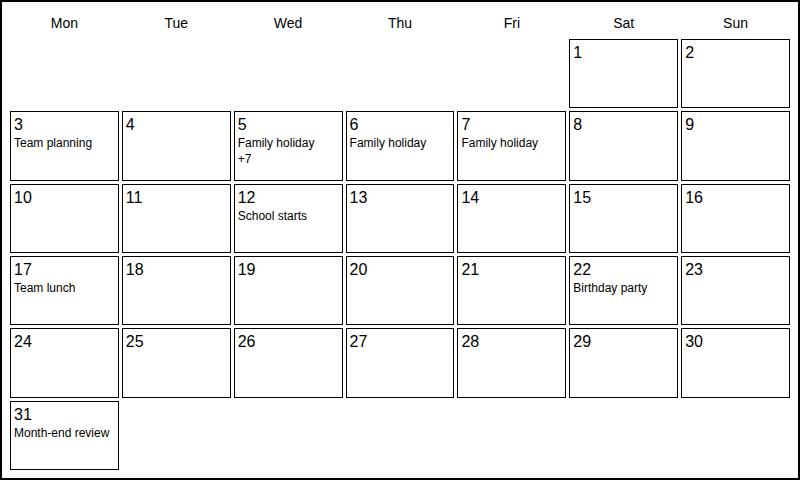
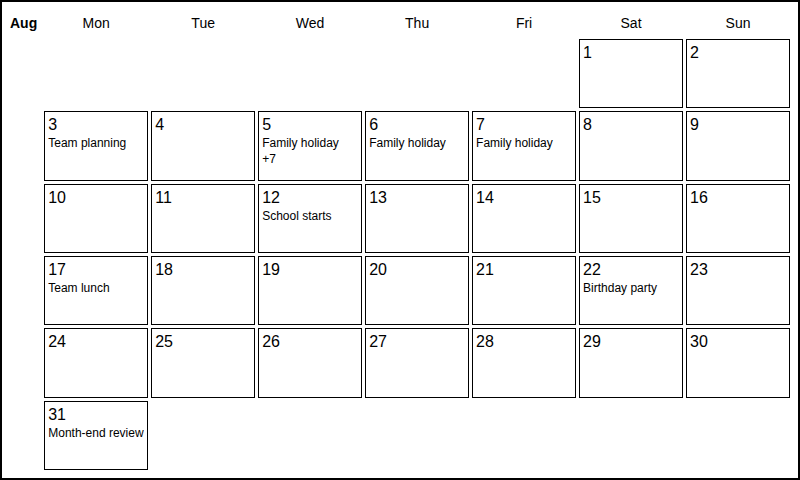
Show abbreviated month name before the first weekday column

diff --git a/idl-calendar.js b/idl-calendar.js
@@ -85,10 +85,12 @@ export class IdlCalendar extends HTMLElement {
         }
         #status { position: absolute; width: 1px; height: 1px; overflow: hidden;
           clip-path: inset(50%); }
-        #month { display: grid; grid-template-columns: repeat(7, minmax(0, 1fr));
+        #month { display: grid; grid-template-columns: auto repeat(7, minmax(0, 1fr));
           height: 100%; grid-template-rows: 26px repeat(var(--weeks), minmax(0, 1fr));
           gap: 3px; }
         .weekday { text-align: center; font-size: 14px; line-height: 26px; }
+        .month-name { font-size: 14px; font-weight: bold; line-height: 26px; padding-right: 4px; }
+        .row-start { grid-column-start: 2; }
         .day { min-width: 0; min-height: 0; padding: 3px; border: 1px solid #000;
           display: flex; flex-direction: column; overflow: hidden; }
         .day-number { font-size: 16px; line-height: 20px; flex: none; }
@@ -226,6 +228,10 @@ export class IdlCalendar extends HTMLElement {
     const grid = this.shadowRoot.querySelector("#month");
     grid.replaceChildren();
     this._dayLists = [];
+    const monthName = document.createElement("span");
+    monthName.className = "month-name";
+    monthName.textContent = start.toLocaleDateString(undefined, { month: "short" });
+    grid.append(monthName);
     for (let index = 0; index < 7; index++) {
       const label = document.createElement("span");
       label.className = "weekday";
@@ -239,14 +245,17 @@ export class IdlCalendar extends HTMLElement {
     grid.setAttribute("style", `--weeks: ${cells / 7}`);
     for (let index = 0; index < cells; index++) {
       const dayNumber = index - leading + 1;
+      const rowStart = index % 7 === 0 ? " row-start" : "";
       if (dayNumber < 1 || dayNumber > days) {
-        grid.append(document.createElement("span"));
+        const blank = document.createElement("span");
+        blank.className = rowStart.trim();
+        grid.append(blank);
         continue;
       }
       const day = new Date(start.getFullYear(), start.getMonth(), dayNumber);
       const dayEvents = eventsForDay(this._events, day);
       const cell = document.createElement("section");
-      cell.className = "day";
+      cell.className = `day${rowStart}`;
       cell.setAttribute("data-date", dateKey(day));
       cell.setAttribute("aria-label", `${day.toLocaleDateString(undefined, DAY_FORMAT)}: ${dayEvents.length} events${dayEvents.length ? `, ${dayEvents.map(event => event.summary).join(", ")}` : ""}`);
       if (dateKey(day) === dateKey(today)) cell.setAttribute("aria-current", "date");

diff --git a/test/idl-calendar.test.js b/test/idl-calendar.test.js
@@ -217,9 +217,15 @@ test("static grid includes weekday headings and every date in a six-week month",
   ], { month: "2026-08" });
   await card._refresh();
   const grid = card.shadowRoot.querySelector("#month");
-  assert.equal(grid.children.length, 7 + 42);
-  assert.equal(grid.children.filter(child => child.className === "day").length, 31);
-  assert.ok(grid.children.slice(0, 7).every(child => child.className === "weekday"));
+  assert.equal(grid.children.length, 1 + 7 + 42);
+  assert.equal(grid.children[0].className, "month-name");
+  assert.equal(grid.children[0].textContent,
+    new Date(2026, 7, 1).toLocaleDateString(undefined, { month: "short" }));
+  assert.equal(grid.children.filter(child => child.className.split(" ").includes("day")).length, 31);
+  assert.ok(grid.children.slice(1, 8).every(child => child.className === "weekday"));
+  const rows = grid.children.slice(8);
+  assert.ok(rows.every((child, index) =>
+    child.className.split(" ").includes("row-start") === (index % 7 === 0)));
   const last = card.shadowRoot.querySelector('[data-date="2026-08-31"]');
   assert.equal(last.children[0].textContent, "31");
   assert.equal(last.children[1].children[0].textContent, "<b>Month end</b>");
@@ -235,9 +241,12 @@ test("Sunday-first four-week grid and empty dates preserve numbers", async () =>
   const card = makeCard(["calendar.work"], async () => [], { month: "2026-02", week_start: 0 });
   await card._refresh();
   const grid = card.shadowRoot.querySelector("#month");
-  assert.equal(grid.children.length, 7 + 28);
-  assert.equal(grid.children[7].children[0].textContent, "1");
-  assert.equal(grid.children[7].children[1].children.length, 0);
+  assert.equal(grid.children.length, 1 + 7 + 28);
+  assert.equal(grid.children[1].textContent,
+    new Date(2026, 0, 4).toLocaleDateString(undefined, { weekday: "short" }));
+  assert.equal(grid.children[8].className, "day row-start");
+  assert.equal(grid.children[8].children[0].textContent, "1");
+  assert.equal(grid.children[8].children[1].children.length, 0);
 });
 
 test("cell capacity reserves an overflow line only when needed", () => {

diff --git a/README.md b/README.md
@@ -3,11 +3,11 @@
 A dependency-free, read-only Home Assistant dashboard card, installable through
 HACS. It is only a display UI for native Home Assistant `calendar.*` entities,
 not a calendar provider or event store. It shows only a static whole-month grid:
-weekday headings, day numbers, and event names. There are no buttons, date
+the abbreviated month name, weekday headings, day numbers, and event names. There are no buttons, date
 selection, navigation, agenda, or event-editing controls. All options are set
 through the card configuration.
 
-![Static 800×480 calendar with weekday headings, event names, and +n overflow](docs/calendar-preview.png)
+![Static 800×480 calendar with month name, weekday headings, event names, and +n overflow](docs/calendar-preview.png)
 
 Preview uses fictional events for August 2026, including a busy day with `+7`
 hidden events. It is captured from the actual card in TRMNL mode.
@@ -50,9 +50,11 @@ For manual installation, copy `idl-calendar.js` into `/config/www/` and register
 ## Static calendar display
 
 Every date is shown, including months spanning six calendar rows. Weekday names
-appear across the top; each non-interactive date cell contains its day number
-and a list of event names. There is no visible title, month toolbar, or secondary
-event panel. The month/year remains available as an accessible label.
+appear across the top, preceded in the top-left corner by the abbreviated month
+name (e.g. `Aug`, localized by the browser) in a narrow column before the first
+weekday. Each non-interactive date cell contains its day number and a list of
+event names. There is no month toolbar or secondary event panel. The full
+month/year remains available as an accessible label.
 No hours, “All day”/“Ongoing” labels, or calendar names are displayed.
 The current day number is bold and underlined.
 
